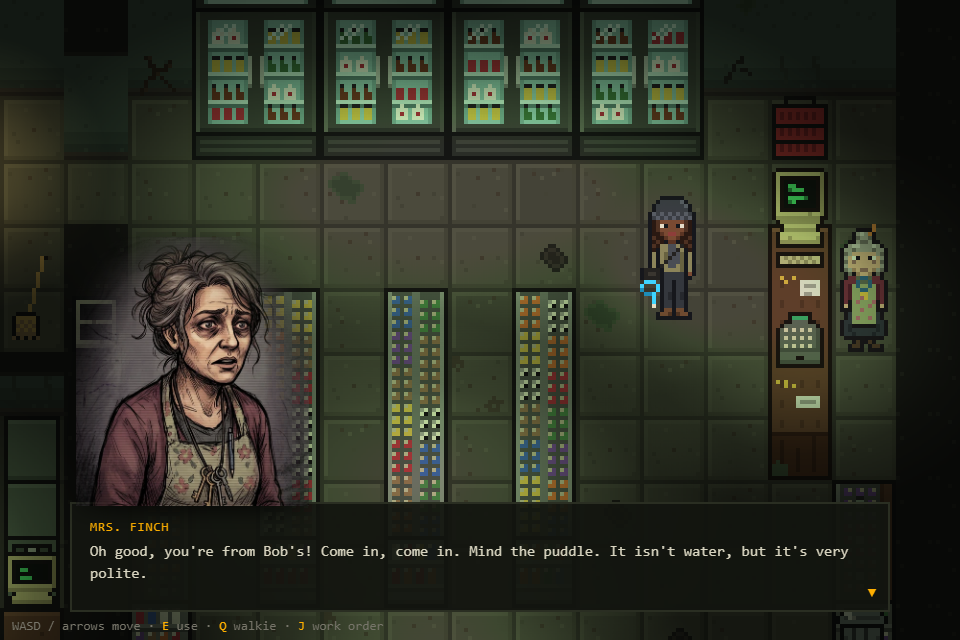
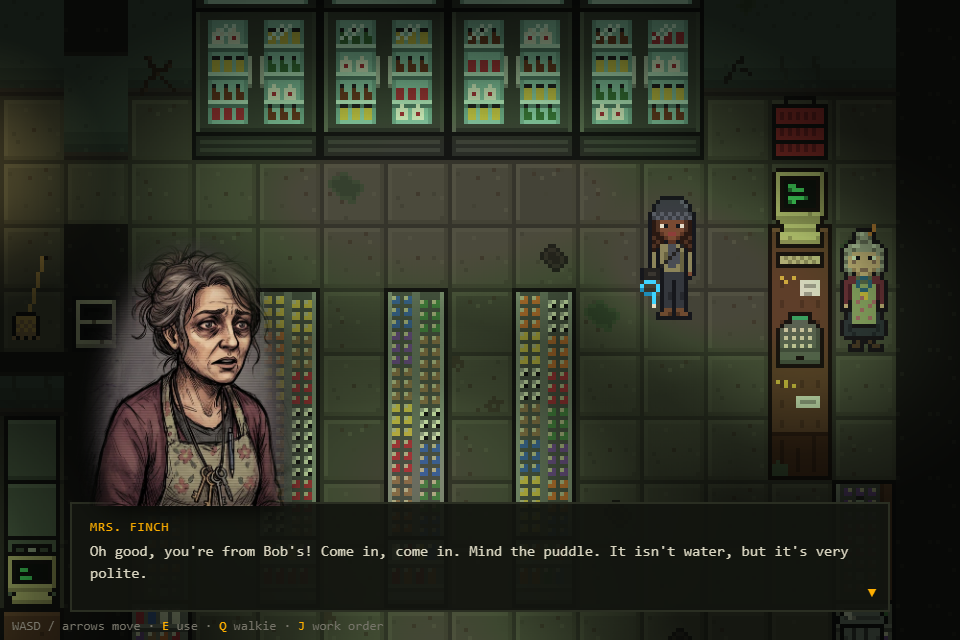
Add Walter's and Simone's busts and the walkie sprite
Walter's bust is his battered B&B radio, since you only ever hear him.
Simone, the contractor, gets a bust for when she has lines. All three
busts now fade fully to transparent at the edges. The walkie in Bob's
office sits on its charger and swaps to the empty charger the moment you
pick it up.

diff --git a/src/game/room-scene.ts b/src/game/room-scene.ts
@@ -61,6 +61,8 @@ export class RoomScene extends Phaser.Scene {
     this.load.spritesheet("store-counter", "assets/sprites/props/store-counter.png", { frameWidth: 16, frameHeight: 80 });
     this.load.spritesheet("store-rack", "assets/sprites/props/store-rack.png", { frameWidth: 32, frameHeight: 32 });
     this.load.spritesheet("store-jack", "assets/sprites/props/store-jack.png", { frameWidth: 16, frameHeight: 16 });
+    // Frame 0 the walkie on its charger, frame 1 the charger once you've taken it.
+    this.load.spritesheet("walkie", "assets/sprites/props/walkie.png", { frameWidth: 16, frameHeight: 16 });
     // Set dressing: 32x80 cells, each piece standing at the bottom centre of its cell.
     this.load.spritesheet("store-decor", "assets/sprites/props/store-decor.png", { frameWidth: 32, frameHeight: 80 });
   }
@@ -106,7 +108,7 @@ export class RoomScene extends Phaser.Scene {
       }),
     );
 
-    for (const p of this.room.props) this.drawProp(p.id === "walkie" && this.story.has("walkie") ? { ...p, label: "Charger" } : p, solid);
+    for (const p of this.room.props) this.drawProp(p.id === "walkie" && this.story.has("walkie") ? { ...p, label: "Charger", frame: 1 } : p, solid);
     if (this.room.id === "shop" && this.story.has("haunt")) this.drawPhantomCable();
 
     // You: the contractor, 16x32 drawn at 4x, standing on her feet.
@@ -147,13 +149,16 @@ export class RoomScene extends Phaser.Scene {
     const onGoto = (to: RoomId) => this.scene.restart({ room: to });
     const onFlicker = () => this.flicker();
     const onHaunt = () => this.room.id === "shop" && this.drawPhantomCable();
+    const onWalkie = () => this.propSprites.get("walkie")?.forEach((s) => s.setFrame(1));
     events.on("goto", onGoto);
     events.on("flicker", onFlicker);
     events.on("haunt", onHaunt);
+    events.on("walkie", onWalkie);
     this.events.once("shutdown", () => {
       events.off("goto", onGoto);
       events.off("flicker", onFlicker);
       events.off("haunt", onHaunt);
+      events.off("walkie", onWalkie);
     });
 
     this.cameras.main.fadeIn(300);

diff --git a/src/game/rooms.ts b/src/game/rooms.ts
@@ -97,7 +97,7 @@ export const ROOMS: Record<RoomId, RoomDef> = {
       { id: "board", label: "Job board", x: 6, y: 0, w: 2, h: 1, verb: "Read", color: 0x7a6a48, onWall: true },
       { id: "gary", label: "Locked door", x: 10, y: 0, w: 1, h: 1, verb: "Knock on", color: 0x5a2a2a, onWall: true },
       { id: "desk", label: "Bob's desk", x: 2, y: 2, w: 3, h: 1, verb: "Look at", color: 0x55524a },
-      { id: "walkie", label: "Walkie", x: 8, y: 2, w: 1, h: 1, verb: "Pick up", color: 0x4a5a4a },
+      { id: "walkie", label: "Walkie", x: 8, y: 2, w: 1, h: 1, verb: "Pick up", color: 0x4a5a4a, sprite: "walkie" },
       { id: "coffee", label: "Coffee", x: 13, y: 5, w: 1, h: 1, verb: "Use", color: 0x4a4440 },
       { id: "cabinet", label: "Files", x: 1, y: 6, w: 1, h: 2, verb: "Open", color: 0x50504a },
       { id: "exit", label: "Front door", x: 7, y: 9, w: 1, h: 1, verb: "Go out", color: 0x3a3428, onWall: true },

diff --git a/src/game/ui.ts b/src/game/ui.ts
@@ -18,6 +18,10 @@ export interface Line {
  */
 const PORTRAITS: Record<string, { busts?: (string | undefined)[]; sheet?: string }> = {
   "MRS. FINCH": { busts: ["assets/portraits/mrs-finch-bust.webp"], sheet: "assets/portraits/mrs-finch.png" },
+  // You only ever hear Walter, so his portrait is the radio.
+  "WALTER (walkie)": { busts: ["assets/portraits/walter-bust.webp"] },
+  // The contractor. She has no spoken lines yet.
+  SIMONE: { busts: ["assets/portraits/simone-bust.webp"] },
 };
 
 export interface Choice {

diff --git a/src/game/story.ts b/src/game/story.ts
@@ -96,6 +96,7 @@ export class Story {
       case "office:walkie":
         if (!this.flags.has("walkie")) {
           this.flags.add("walkie");
+          events.emit("walkie");
           ui.say([
             { who: W, text: "Is this thing on? Course it's on. Everything's on. That's the trouble with everything." },
             { who: W, text: "WELCOME, welcome, welcome, new hire, to Bob's Bandwidth and Bloodletting! Ding ding ding! You have unlocked: a job!" },

diff --git a/art/source/portraits/make-bust.py b/art/source/portraits/make-bust.py
@@ -1,10 +1,11 @@
 """Cut a dialogue bust out of an illustrated concept and fade its edges to transparent.
-usage: bust.py <concept.jpg> <out.webp> left top right bottom (in concept pixels)"""
+usage: bust.py <concept.jpg> <out.webp> left top right bottom [soft] (box in concept pixels)"""
 import sys
 from PIL import Image, ImageChops, ImageDraw, ImageFilter
 
 src, out = sys.argv[1], sys.argv[2]
 box = tuple(int(v) for v in sys.argv[3:7])
+SOFT = float(sys.argv[7]) if len(sys.argv) > 7 else 1.0  # bigger fades the edges further in
 HEIGHT = 560  # 2x the size it's shown at, for sharp high-DPI screens
 
 img = Image.open(src).convert("RGB").crop(box)
@@ -14,8 +15,10 @@ img = img.resize((w, HEIGHT), Image.LANCZOS)
 # Soft oval fade, fully solid over her face and shoulders, gone at the edges.
 mask = Image.new("L", img.size, 0)
 d = ImageDraw.Draw(mask)
-d.ellipse((w * 0.04, HEIGHT * 0.03, w * 0.96, HEIGHT * 1.5), fill=255)
-mask = mask.filter(ImageFilter.GaussianBlur(HEIGHT * 0.07))
+blur = HEIGHT * 0.045 * SOFT
+pad = 2.2 * blur  # far enough in that the blurred edge reaches zero at the border
+d.ellipse((pad, pad * 0.6, w - pad, HEIGHT * 1.5), fill=255)
+mask = mask.filter(ImageFilter.GaussianBlur(blur))
 # keep the bottom edge solid so she sits on the dialogue box
 bottom = Image.new("L", img.size, 0)
 ImageDraw.Draw(bottom).rectangle((w * 0.24, HEIGHT * 0.72, w * 0.76, HEIGHT), fill=255)

diff --git a/HANDOFF.md b/HANDOFF.md
@@ -72,7 +72,7 @@ Phase 1 (the simulator) still has gaps:
 
 Unverified against real gear (best recollection, check when someone has a Catalyst handy): the error text for `no interface` on a physical port, and whether a subinterface shows "administratively down" when only its parent is shut. From IOS 15 docs and memory rather than a capture (Ant's CML only runs IOL, IOS XE 17): the 2911 `show running-config` skeleton (no license udi, redundancy, Embedded-Service-Engine0/0, line 2 or scheduler lines yet) and the 2911/2960 hardware and media lines in `show interfaces`. Frame byte counts and the 5-minute rates are approximate. The 2960 keeps `Administrative Trunking Encapsulation: dot1q` and `Native VLAN tagging: enabled` (IOL says negotiate/disabled, but a 2960 only does dot1q). Answering yes to the setup dialog backs out as if Ctrl-C was pressed; the setup facility isn't simulated. Boot doesn't print the post-boot log burst (%SYS-5-RESTART, interface logs) yet.
 
-Phase 2 is the vertical slice. Ant picked 16 px art (drawn at 4x) and Phaser on 2026-10-18. The grey-box corner store is built (`src/game/`, branch `claude/corner-store-slice`): home base with the walkie-talkie (Walter), Gary's locked door, the job board and Bob's desk; the shop with Mrs. Finch, the register and back office PCs, the rack (console into R1 or S1) and a port panel where you can pull and replug cables. The work order ticks off from the live network. When it's all done, a phantom PC (MAC 6666.6666.6666, 192.168.1.66) plugs into S1 Fa0/24 through the wall behind the cooler and pings the register now and then, the lights flicker, and the job report's BOUNDARY INTEGRITY line fades. The town sign goes from 4,218 to 4,219 on the way home. `src/game/story.ts` holds every line and trigger. Sprites in so far: the contractor's walk and Mrs. Finch (stage 1, calm), both 16x32 sheets in `public/assets/sprites/characters/`. A prop with `sprite` set in `rooms.ts` draws that sheet's first frame instead of a grey box. The shop follows Ant's blueprint (`art/concepts/locations/mrs-finch-store-layout.jpg`): 21x14 tiles (the back wall is two tiles tall) with the hallway and back office on the left (the rack and PC1 are in the office now), fridges along the back wall with the wall jack beside them, three shelf aisles, and the counter on the right. The camera follows you in rooms bigger than the screen, and props marked `decor` block you without an E prompt. The shop's floor and walls come from `public/assets/sprites/tiles/store-tiles.png` (frame layout and weights in `rooms.ts`); the office is still flat grey. Every store prop now has art: fridges, counter (with the CRT for PC0), rack, wall jack (roots once haunted), and the set dressing on one `store-decor` sheet of 32x80 cells (frames: 0/13/14 aisle shelves, 1-2 wall shelves, 3 desk with PC1, 4 chair, 5 files, 6-7 boxes, 8 storage, 9-10 baskets, 11 broom, 12 bins). Props with `hidden` (PC0, PC1) are drawn by another prop's sprite. The store is dark with lamp pools (`lights` on the room). Dialogue shows a portrait for speakers listed in `PORTRAITS` in `ui.ts`, picked by `mood` on a line (0 calm, 1 paranoid, 2 frantic). Ant chose illustrated busts that stand over the dialogue box; Mrs. Finch has one (mood 0, cut from `art/concepts/characters/mrs-finch-dialogue-concept.jpg` by `art/source/portraits/make-bust.py`). Moods without a bust fall back to her 64 px pixel portraits, so paranoid and frantic busts still need drawing. Every line today is mood 0, which fits her denial in job 1. Mrs. Finch stands behind the counter but doesn't walk yet; her stage 2 and 3 versions aren't drawn. Still to do: the rest of Ant's sprites (spec in the shared `design/art-spec-corner-store.md`, PNGs land in the shared `art/` folder), the home lab, a sanity meter, sound, and saving progress.
+Phase 2 is the vertical slice. Ant picked 16 px art (drawn at 4x) and Phaser on 2026-10-18. The grey-box corner store is built (`src/game/`, branch `claude/corner-store-slice`): home base with the walkie-talkie (Walter), Gary's locked door, the job board and Bob's desk; the shop with Mrs. Finch, the register and back office PCs, the rack (console into R1 or S1) and a port panel where you can pull and replug cables. The work order ticks off from the live network. When it's all done, a phantom PC (MAC 6666.6666.6666, 192.168.1.66) plugs into S1 Fa0/24 through the wall behind the cooler and pings the register now and then, the lights flicker, and the job report's BOUNDARY INTEGRITY line fades. The town sign goes from 4,218 to 4,219 on the way home. `src/game/story.ts` holds every line and trigger. Sprites in so far: the contractor's walk and Mrs. Finch (stage 1, calm), both 16x32 sheets in `public/assets/sprites/characters/`. A prop with `sprite` set in `rooms.ts` draws that sheet's first frame instead of a grey box. The shop follows Ant's blueprint (`art/concepts/locations/mrs-finch-store-layout.jpg`): 21x14 tiles (the back wall is two tiles tall) with the hallway and back office on the left (the rack and PC1 are in the office now), fridges along the back wall with the wall jack beside them, three shelf aisles, and the counter on the right. The camera follows you in rooms bigger than the screen, and props marked `decor` block you without an E prompt. The shop's floor and walls come from `public/assets/sprites/tiles/store-tiles.png` (frame layout and weights in `rooms.ts`); the office is still flat grey. Every store prop now has art: fridges, counter (with the CRT for PC0), rack, wall jack (roots once haunted), and the set dressing on one `store-decor` sheet of 32x80 cells (frames: 0/13/14 aisle shelves, 1-2 wall shelves, 3 desk with PC1, 4 chair, 5 files, 6-7 boxes, 8 storage, 9-10 baskets, 11 broom, 12 bins). Props with `hidden` (PC0, PC1) are drawn by another prop's sprite. The store is dark with lamp pools (`lights` on the room). Dialogue shows a portrait for speakers listed in `PORTRAITS` in `ui.ts`, picked by `mood` on a line (0 calm, 1 paranoid, 2 frantic). Ant chose illustrated busts that stand over the dialogue box; Mrs. Finch has one (mood 0, cut from `art/concepts/characters/mrs-finch-dialogue-concept.jpg` by `art/source/portraits/make-bust.py`). Moods without a bust fall back to her 64 px pixel portraits, so paranoid and frantic busts still need drawing. Every line today is mood 0, which fits her denial in job 1. Walter's bust is his radio (you only ever hear him), and the contractor, Simone, has a bust registered as `SIMONE` for when she gets lines. The walkie on the office floor is a sprite that switches to an empty charger the moment you pick it up (story emits `walkie`). Mrs. Finch stands behind the counter but doesn't walk yet; her stage 2 and 3 versions aren't drawn. Still to do: the rest of Ant's sprites (spec in the shared `design/art-spec-corner-store.md`, PNGs land in the shared `art/` folder), the home lab, a sanity meter, sound, and saving progress.
 
 ## Open questions for Ant
 
